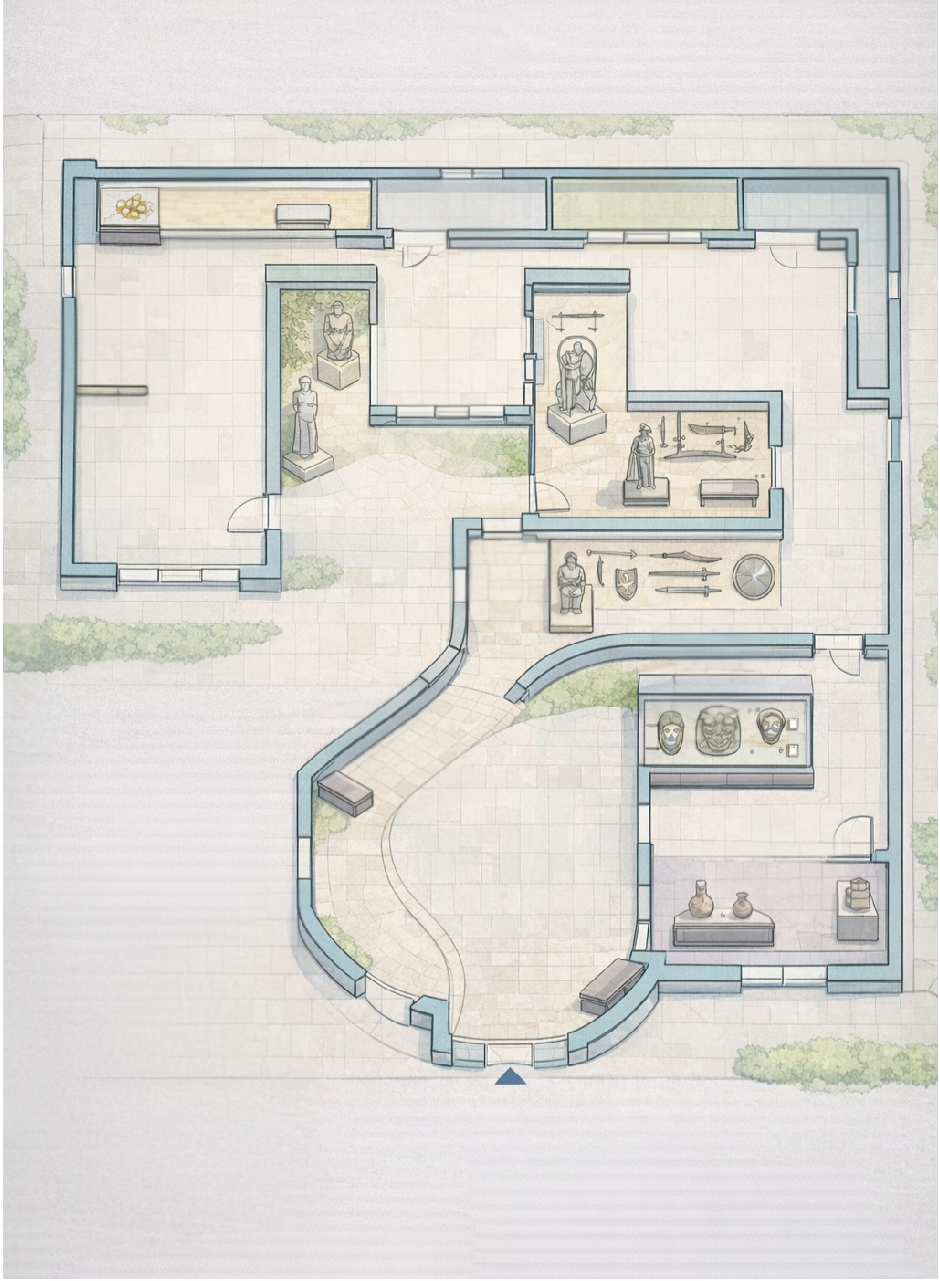
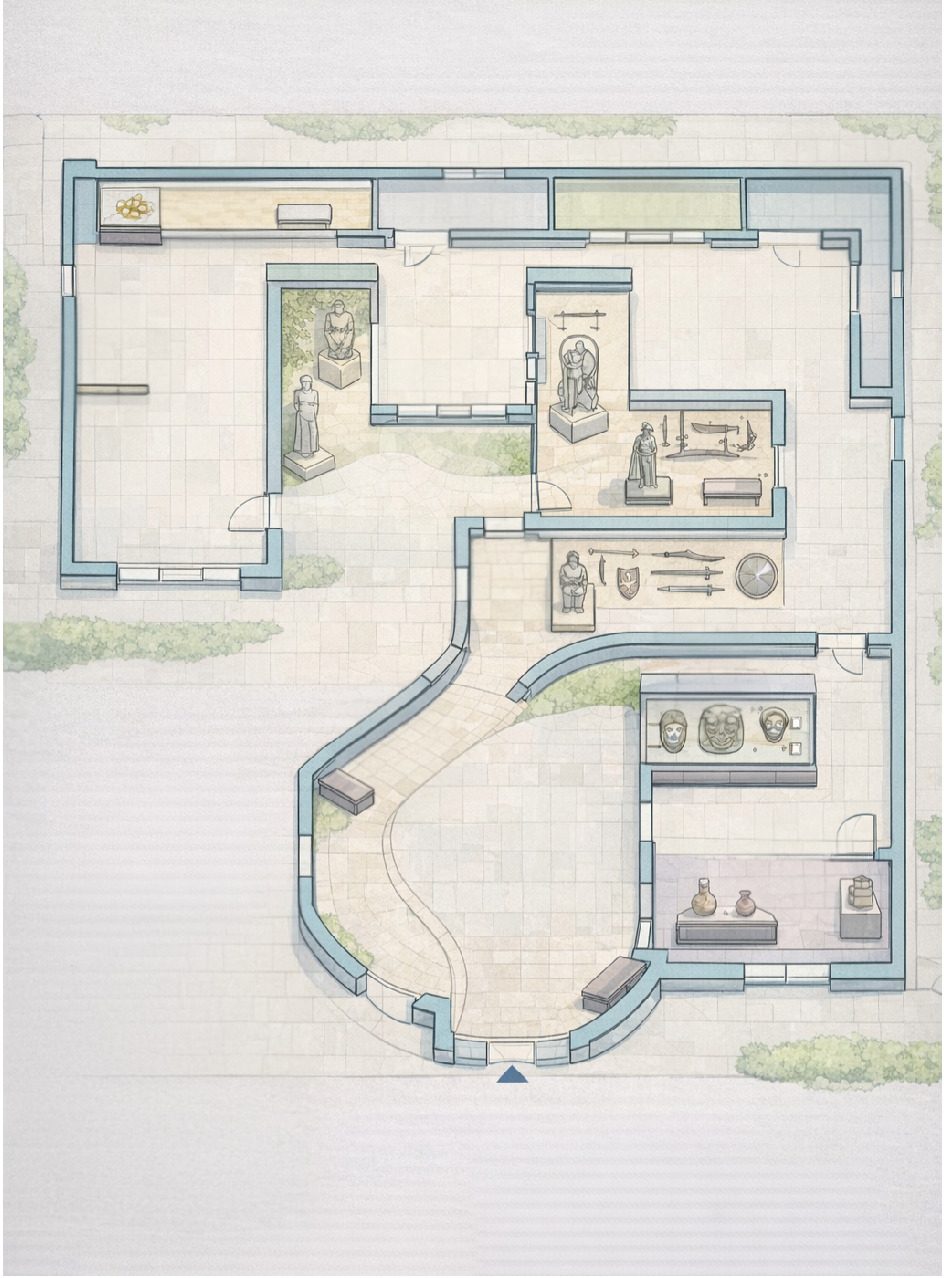
enhanced map routline and UI

diff --git a/lib/screens/features/indoor_map_screen.dart b/lib/screens/features/indoor_map_screen.dart
@@ -15,7 +15,11 @@ class _MapLocation {
   final String name;
   final double px;
   final double py;
-  const _MapLocation({required this.id, required this.name, required this.px, required this.py});
+  const _MapLocation(
+      {required this.id,
+      required this.name,
+      required this.px,
+      required this.py});
 }
 
 class IndoorMapScreen extends StatefulWidget {
@@ -34,6 +38,8 @@ class _IndoorMapScreenState extends State<IndoorMapScreen> {
 
   List<List<Offset>> routeSegments = [];
   List<_MapLocation> _locations = [];
+  List<_MapLocation> _userLocations = [];
+  _MapLocation? _selectedUserLocation;
 
   bool isLoading = true;
   String errorMessage = '';
@@ -49,8 +55,8 @@ class _IndoorMapScreenState extends State<IndoorMapScreen> {
   static const double minY = -1423.829054721;
   static const double maxY = -18.077619119;
 
-  // PNG dimensions
-  static const double mapWidth  = 940;
+  // Map dimensions for the indoor map raster asset.
+  static const double mapWidth = 940;
   static const double mapHeight = 1281;
 
   @override
@@ -128,12 +134,18 @@ class _IndoorMapScreenState extends State<IndoorMapScreen> {
   }
 
   Future<void> _loadAll() async {
-    setState(() { isLoading = true; errorMessage = ''; });
+    setState(() {
+      isLoading = true;
+      errorMessage = '';
+    });
     try {
-      await Future.wait([_loadRoutes(), _loadLocations()]);
+      await Future.wait([_loadRoutes(), _loadLocations(), _loadUserLocations()]);
       setState(() => isLoading = false);
     } catch (e) {
-      setState(() { errorMessage = 'Failed to load map data: $e'; isLoading = false; });
+      setState(() {
+        errorMessage = 'Failed to load map data: $e';
+        isLoading = false;
+      });
     }
   }
 
@@ -151,14 +163,23 @@ class _IndoorMapScreenState extends State<IndoorMapScreen> {
       if (type == 'LineString') {
         lines = [geometry['coordinates'] as List<dynamic>];
       } else if (type == 'MultiLineString') {
-        lines = (geometry['coordinates'] as List<dynamic>).map((l) => l as List<dynamic>).toList();
+        lines = (geometry['coordinates'] as List<dynamic>)
+            .map((l) => l as List<dynamic>)
+            .toList();
       }
 
       for (final line in lines) {
         final seg = <Offset>[];
         for (final coord in line) {
           final c = coord as List<dynamic>;
-          seg.add(_geoToPixel((c[0] as num).toDouble(), (c[1] as num).toDouble()));
+          // Route GeoJSON uses image-space coordinates with the Y axis growing
+          // upward, so we flip it to match Flutter's top-left canvas origin.
+          seg.add(
+            Offset(
+              (c[0] as num).toDouble(),
+              mapHeight - (c[1] as num).toDouble(),
+            ),
+          );
         }
         if (seg.isNotEmpty) segments.add(seg);
       }
@@ -168,7 +189,8 @@ class _IndoorMapScreenState extends State<IndoorMapScreen> {
   }
 
   Future<void> _loadLocations() async {
-    final raw = await rootBundle.loadString('assets/map-routes/location.geojson');
+    final raw =
+        await rootBundle.loadString('assets/map-routes/location.geojson');
     final data = jsonDecode(raw) as Map<String, dynamic>;
     final features = data['features'] as List<dynamic>;
     final locs = <_MapLocation>[];
@@ -176,7 +198,8 @@ class _IndoorMapScreenState extends State<IndoorMapScreen> {
     for (final feature in features) {
       final props = feature['properties'] as Map<String, dynamic>;
       final coords = (feature['geometry']['coordinates'] as List<dynamic>);
-      final p = _geoToPixel((coords[0] as num).toDouble(), (coords[1] as num).toDouble());
+      final p = _geoToPixel(
+          (coords[0] as num).toDouble(), (coords[1] as num).toDouble());
       locs.add(_MapLocation(
         id: (props['id'] as num).toInt(),
         name: props['name'] as String,
@@ -186,6 +209,27 @@ class _IndoorMapScreenState extends State<IndoorMapScreen> {
     }
 
     _locations = locs;
+  }
+
+  Future<void> _loadUserLocations() async {
+    final raw =
+        await rootBundle.loadString('assets/user/userlocation.geojson');
+    final data = jsonDecode(raw) as Map<String, dynamic>;
+    final features = data['features'] as List<dynamic>;
+    final locs = <_MapLocation>[];
+
+    for (final feature in features) {
+      final props = feature['properties'] as Map<String, dynamic>;
+      final coords = (feature['geometry']['coordinates'] as List<dynamic>);
+      locs.add(_MapLocation(
+        id: (props['id'] as num).toInt(),
+        name: props['name'] as String,
+        px: (coords[0] as num).toDouble(),
+        py: mapHeight - (coords[1] as num).toDouble(),
+      ));
+    }
+
+    _userLocations = locs;
   }
 
   void _scheduleInitialMapView(Size viewportSize) {
@@ -225,19 +269,27 @@ class _IndoorMapScreenState extends State<IndoorMapScreen> {
     if (n.contains('rest')) return Icons.chair;
     if (n.contains('outdoor')) return Icons.park;
     if (n.contains('gallery') || n.contains('art')) return Icons.museum;
-    if (n.contains('crown') || n.contains('royal')) return Icons.workspace_premium;
+    if (n.contains('crown') || n.contains('royal')) {
+      return Icons.workspace_premium;
+    }
     if (n.contains('coin')) return Icons.monetization_on;
     if (n.contains('cloth')) return Icons.checkroom;
-    if (n.contains('statue') || n.contains('skulture')) return Icons.accessibility_new;
+    if (n.contains('statue') || n.contains('skulture')) {
+      return Icons.accessibility_new;
+    }
     if (n.contains('mask')) return Icons.theater_comedy;
-    if (n.contains('weapon') || n.contains('sword') || n.contains('wepon')) return Icons.gavel;
+    if (n.contains('weapon') || n.contains('sword') || n.contains('wepon')) {
+      return Icons.gavel;
+    }
     if (n.contains('pottery')) return Icons.emoji_food_beverage;
     return Icons.place;
   }
 
   Color _colorFor(String name) {
     final n = name.toLowerCase();
-    if (n.contains('entrance') || n.contains('exit')) return Colors.green.shade700;
+    if (n.contains('entrance') || n.contains('exit')) {
+      return Colors.green.shade700;
+    }
     if (n.contains('toilet') || n.contains('rest')) return Colors.blue.shade600;
     if (n.contains('outdoor')) return Colors.teal.shade600;
     return const Color(0xFF6D4C41); // brown for artifacts
@@ -268,9 +320,11 @@ class _IndoorMapScreenState extends State<IndoorMapScreen> {
                     children: [
                       const Icon(Icons.error, color: Colors.red, size: 50),
                       const SizedBox(height: 10),
-                      Text(errorMessage, style: const TextStyle(color: Colors.red)),
+                      Text(errorMessage,
+                          style: const TextStyle(color: Colors.red)),
                       const SizedBox(height: 10),
-                      ElevatedButton(onPressed: _loadAll, child: const Text('Retry')),
+                      ElevatedButton(
+                          onPressed: _loadAll, child: const Text('Retry')),
                     ],
                   ),
                 )
@@ -292,20 +346,25 @@ class _IndoorMapScreenState extends State<IndoorMapScreen> {
                         child: Stack(
                           clipBehavior: Clip.none,
                           children: [
-                            // PNG map
+                            // Base indoor map image.
                             Image.asset(
                               'assets/maps/indoor_map.png',
                               width: mapWidth,
                               height: mapHeight,
                               fit: BoxFit.fill,
                             ),
-                            // Dashed route network
+                            // Indoor walking paths from routes.geojson.
                             CustomPaint(
                               size: const Size(mapWidth, mapHeight),
-                              painter: _NetworkPainter(routeSegments: routeSegments),
+                              painter:
+                                  _NetworkPainter(routeSegments: routeSegments),
                             ),
                             // Location markers
-                            ..._locations.map((loc) => _buildLocationMarker(loc)),
+                            ..._locations
+                                .map((loc) => _buildLocationMarker(loc)),
+                            // Selected user location marker
+                            if (_selectedUserLocation != null)
+                              _buildUserLocationMarker(_selectedUserLocation!),
                           ],
                         ),
                       ),
@@ -327,12 +386,12 @@ class _IndoorMapScreenState extends State<IndoorMapScreen> {
 
   Widget _buildLocationMarker(_MapLocation loc) {
     final color = _colorFor(loc.name);
-    final icon  = _iconFor(loc.name);
+    final icon = _iconFor(loc.name);
     final isArtifact = _isArtifactLocation(loc.name);
 
     return Positioned(
       left: loc.px - 14,
-      top:  loc.py - 14,
+      top: loc.py - 14,
       child: Opacity(
         opacity: isArtifact ? 1.0 : 0.7,
         child: Column(
@@ -363,12 +422,59 @@ class _IndoorMapScreenState extends State<IndoorMapScreen> {
               ),
               child: Text(
                 loc.name,
-                style: const TextStyle(color: Colors.white, fontSize: 7, fontWeight: FontWeight.w600),
+                style: const TextStyle(
+                    color: Colors.white,
+                    fontSize: 7,
+                    fontWeight: FontWeight.w600),
                 textAlign: TextAlign.center,
               ),
             ),
           ],
         ),
+      ),
+    );
+  }
+
+  Widget _buildUserLocationMarker(_MapLocation loc) {
+    return Positioned(
+      left: loc.px - 18,
+      top: loc.py - 18,
+      child: Column(
+        mainAxisSize: MainAxisSize.min,
+        children: [
+          Container(
+            width: 36,
+            height: 36,
+            decoration: BoxDecoration(
+              color: Colors.blue.shade700,
+              shape: BoxShape.circle,
+              border: Border.all(color: Colors.white, width: 2),
+              boxShadow: [
+                BoxShadow(
+                  color: Colors.blue.withValues(alpha: 0.4),
+                  blurRadius: 8,
+                  spreadRadius: 2,
+                ),
+              ],
+            ),
+            child: const Icon(Icons.person_pin, color: Colors.white, size: 20),
+          ),
+          Container(
+            padding: const EdgeInsets.symmetric(horizontal: 4, vertical: 2),
+            decoration: BoxDecoration(
+              color: Colors.blue.shade700.withValues(alpha: 0.9),
+              borderRadius: BorderRadius.circular(4),
+            ),
+            child: Text(
+              loc.name,
+              style: const TextStyle(
+                color: Colors.white,
+                fontSize: 8,
+                fontWeight: FontWeight.bold,
+              ),
+            ),
+          ),
+        ],
       ),
     );
   }
@@ -385,17 +491,24 @@ class _IndoorMapScreenState extends State<IndoorMapScreen> {
           const Text('Loc:', style: labelStyle),
           const SizedBox(width: 4),
           DropdownButton<String>(
-            value: devOptions.selectedLocation,
+            value: _selectedUserLocation?.name,
+            hint: Text('Select...', style: dropdownStyle),
             isDense: true,
             dropdownColor: Colors.brown.shade800,
             style: dropdownStyle,
             underline: const SizedBox.shrink(),
             iconEnabledColor: Colors.white70,
-            items: DevOptionsProvider.locations
-                .map((l) => DropdownMenuItem(value: l, child: Text(l, style: dropdownStyle)))
+            items: _userLocations
+                .map((l) => DropdownMenuItem(
+                    value: l.name, child: Text(l.name, style: dropdownStyle)))
                 .toList(),
             onChanged: (v) {
-              if (v != null) context.read<DevOptionsProvider>().setSelectedLocation(v);
+              if (v != null) {
+                setState(() {
+                  _selectedUserLocation =
+                      _userLocations.firstWhere((l) => l.name == v);
+                });
+              }
             },
           ),
           const SizedBox(width: 16),
@@ -409,10 +522,13 @@ class _IndoorMapScreenState extends State<IndoorMapScreen> {
             underline: const SizedBox.shrink(),
             iconEnabledColor: Colors.white70,
             items: DevOptionsProvider.activities
-                .map((a) => DropdownMenuItem(value: a, child: Text(a, style: dropdownStyle)))
+                .map((a) => DropdownMenuItem(
+                    value: a, child: Text(a, style: dropdownStyle)))
                 .toList(),
             onChanged: (v) {
-              if (v != null) context.read<DevOptionsProvider>().setSelectedActivity(v);
+              if (v != null) {
+                context.read<DevOptionsProvider>().setSelectedActivity(v);
+              }
             },
           ),
         ],
@@ -431,27 +547,33 @@ class _NetworkPainter extends CustomPainter {
   @override
   void paint(Canvas canvas, Size size) {
     if (routeSegments.isEmpty) return;
-    final paint = Paint()
-      ..color = Colors.grey.withValues(alpha: 0.55)
-      ..strokeWidth = 1.8
+    final pathPaint = Paint()
+      ..color = const Color(0xFF9AA0A6).withValues(alpha: 0.95)
+      ..strokeWidth = 2.6
       ..style = PaintingStyle.stroke
-      ..strokeCap = StrokeCap.round;
+      ..strokeCap = StrokeCap.round
+      ..strokeJoin = StrokeJoin.round;
 
     for (final seg in routeSegments) {
       if (seg.isEmpty) continue;
       final path = Path()..moveTo(seg[0].dx, seg[0].dy);
-      for (final pt in seg.skip(1)) { path.lineTo(pt.dx, pt.dy); }
-      _drawDashed(canvas, path, paint);
+      for (final pt in seg.skip(1)) {
+        path.lineTo(pt.dx, pt.dy);
+      }
+      _drawDashedPath(canvas, path, pathPaint);
     }
   }
 
-  void _drawDashed(Canvas canvas, Path path, Paint paint) {
-    const dash = 7.0, gap = 5.0;
-    for (final m in path.computeMetrics()) {
-      double d = 0;
-      while (d < m.length) {
-        canvas.drawPath(m.extractPath(d, (d + dash).clamp(0.0, m.length)), paint);
-        d += dash + gap;
+  void _drawDashedPath(Canvas canvas, Path path, Paint paint) {
+    const dashLength = 10.0;
+    const gapLength = 7.0;
+
+    for (final metric in path.computeMetrics()) {
+      double distance = 0;
+      while (distance < metric.length) {
+        final end = (distance + dashLength).clamp(0.0, metric.length);
+        canvas.drawPath(metric.extractPath(distance, end), paint);
+        distance += dashLength + gapLength;
       }
     }
   }
